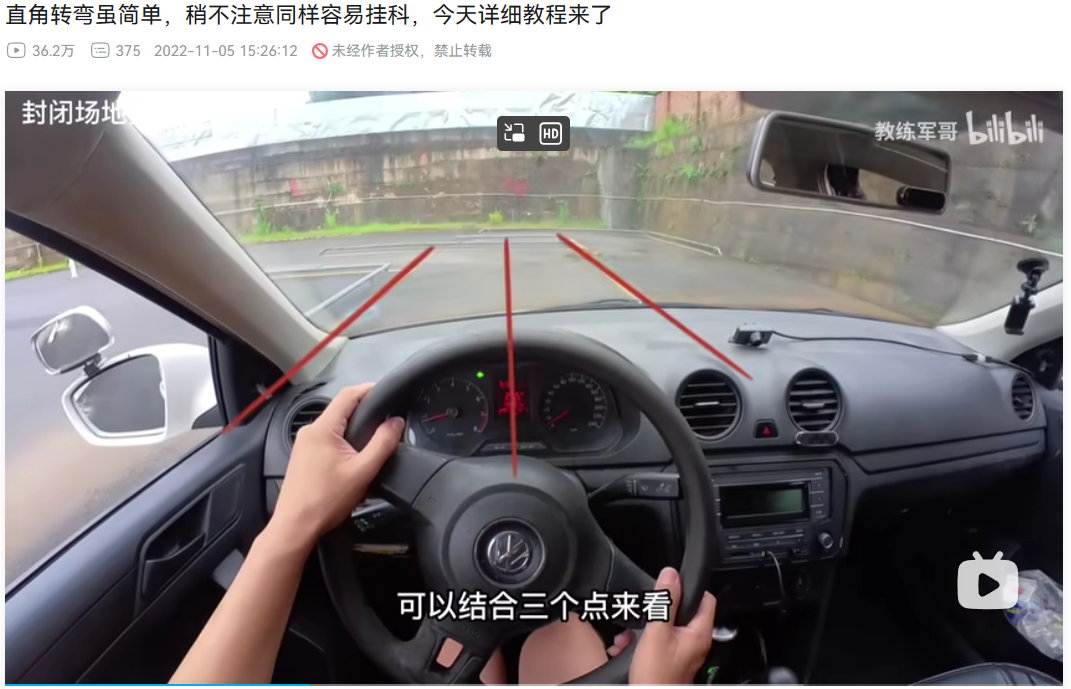
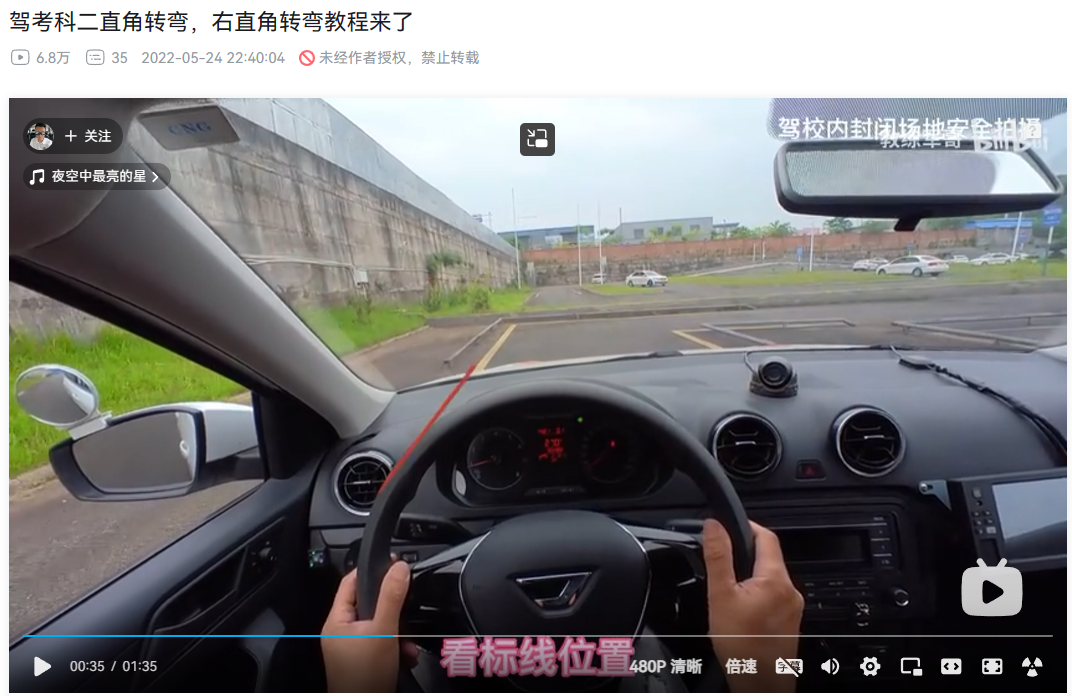
vault backup: 2024-05-11 22:24:58

diff --git a/学车/科目二/Day07.md b/学车/科目二/Day07.md
@@ -1,0 +1,48 @@
+---
+date: 20240511
+---
+
+## 前言
+
+五月五号的时候叫教练帮我预约科目二的考试，本来是打算预约五月十五号考试的，因为我觉得十五对于我来说是个幸运的数字，但是教练说预约到二十号，教练这么做是有原因的，刚好有两个周末，考前可以练四次，所以就听教练的了，希望那天有个好天气吧。
+
+## 练车
+
+今天下午两点就出发了，两点半才上车，我一开始以为要两个小时，可能会迟到，没想到三点四十多就到了，车上的时间一个小时十分钟就够了。提前到了也没有直接去找教练，约好的是四点半，就在附近找了个阴凉的地方，等到了四点二十多才进了训练场。
+
+一开始教练在车上，帮我复习了一下之前学过的内容，跑了两圈之后，教练就下车了，我一个人在车上练了几圈。前几天把所有点位都截图截下来了，加上教练在旁边指导，很快就记起来了。不过有几个地方需要格外注意：
+
+- 侧方位停车，引车时，左侧车窗要贴着黄线的内侧（左边的窗脚沿着左边的黄线），边走边调整，差不多时，观察右后视镜，看到库脚马上停车，超过了也不要紧，倒车到库脚快消失的时候再右打一圈。不过需要注意的是，中途不能停车，切记。
+
+左窗左线：
+
+![](../images/科二_侧方位停车_06.png)
+
+右前线消失：
+
+![](../images/科二_侧方位停车_07.png)
+
+如果库脚出现时未及时停车，那么先不着急右打一圈方向盘，而是换倒挡，等到库脚快消失时右打一圈方向盘：
+
+![](../images/科二_侧方位停车_08.png)
+
+- 侧方位停车，[[Day06#侧方位停车|左后视镜能完全看到第二根黄线时，左打一圈回正，而不是左打死]]；
+- 侧方位停车，当右车把手的中间碰到黄线时，立刻左打死，直到车身与黄线平行时停车，没有平行前别停车，否则前轮有可能还未入库；
+- 曲线行驶，[[Day04#曲线行驶|黄线左镜脚消失时，右打一圈回正，等右黄线出现时才是右打一圈加九十度]]；
+- 直角转弯，引车时，黄线距离左侧窗脚一掌宽的位置，**等到车门把手最后一个尖角过了白色实线一半的位置后立刻右打死方向盘**，不是之之前记的位置，这里要纠正过来；
+
+黄线在在车窗内一掌宽的位置：
+
+![](../images/科二_直角转弯_00.png)
+
+右打死方向盘：
+
+![](../images/科二_直角转弯_01.png)
+
+参考：[驾考科二直角转弯，右直角转弯教程来了_哔哩哔哩_bilibili](https://www.bilibili.com/video/BV1GY4y1L7nz/?spm_id_from=333.337.search-card.all.click&vd_source=081641abeed94aff322f0473e2c1773d)
+
+- [[Day04#坡道定点|坡道定点]]，一定要找准半联动的点，今天在练车时有两次都熄火了，要是考试的时候熄火了就直接寄。
+
+现在已经能够控制车速了，发现车速慢，点位对了，基本上都没问题。
+
+除此之外，一次练车练一个小时差不多就够了，时间越久，左脚越累，离合控制地就越差，精神也比较涣散，所以出错的可能性也越大。

diff --git a/学车/科目二/Day04.md b/学车/科目二/Day04.md
@@ -40,28 +40,28 @@ date: 20240406
 
 过完曲线行驶后，会马上进入直角转弯，前面过完曲线行驶时方向盘保留了右打一圈的状态。
 
+### 20240511 更新
+
+今天才发现我之前找的视频不对，我考的是右直角转弯，而非左直角转弯，避免记混，把之前的截图都删了，重新再把这个过程梳理一遍。
+
 - 继续行驶，直到仪表盘对准了白色水管，左打一圈方向盘回正；
 - 方向盘回正后继续行驶，到差不多的位置后停车，右打满方向盘；
 - 当车身回过来之后，停车，回正方向盘，打右转向灯；
 
-![](../images/科二_直角转弯_04.png)
+![](../images/科二_直角转弯_03.png)
 
 - 松离合，一直往前走，右扭头观察，直到车门拉手尖角过了白黄实线，立马右打满方向盘；
 
 ![](../images/科二_直角转弯_00.png)
 ![](../images/科二_直角转弯_01.png)
 
-验证
+车外视角：
 
 ![](../images/科二_直角转弯_02.png)
 
-回正方向盘
-
-![](../images/科二_直角转弯_03.png)
-
 - 继续行驶，直到仪表盘对准了第二列间隔的中心，回正方向盘；
 
-参考：[科目二直角转弯技巧讲解，不会的同学可以试试曾教的方法_哔哩哔哩_bilibili](https://www.bilibili.com/video/BV1Z14y1z7AD/?spm_id_from=333.337.search-card.all.click&vd_source=081641abeed94aff322f0473e2c1773d)
+参考：[驾考科二直角转弯，右直角转弯教程来了_哔哩哔哩_bilibili](https://www.bilibili.com/video/BV1GY4y1L7nz/?spm_id_from=333.337.search-card.all.click&vd_source=081641abeed94aff322f0473e2c1773d)
 
 ## 坡道定点
 

diff --git a/学车/科目二/Day06.md b/学车/科目二/Day06.md
@@ -4,7 +4,17 @@
 
 ## 侧方位停车
 
-- 观察左后视镜，能看到镜脚中黄线两指宽，稳定一直往前走，观察右后视镜，一旦看到前库脚就停车；
+- 观察左后视镜，能看到镜脚中黄线两指宽（左边的窗脚沿着左边的黄线），稳定一直往前走，右前线消失马上观察右后视镜，一旦看到前库脚就停车；
+
+左窗左线：
+
+![](../images/科二_侧方位停车_06.png)
+
+右前线消失：
+
+![](../images/科二_侧方位停车_07.png)
+
+停车：
 
 ![](../images/科二_侧方位停车_03.png)
 
